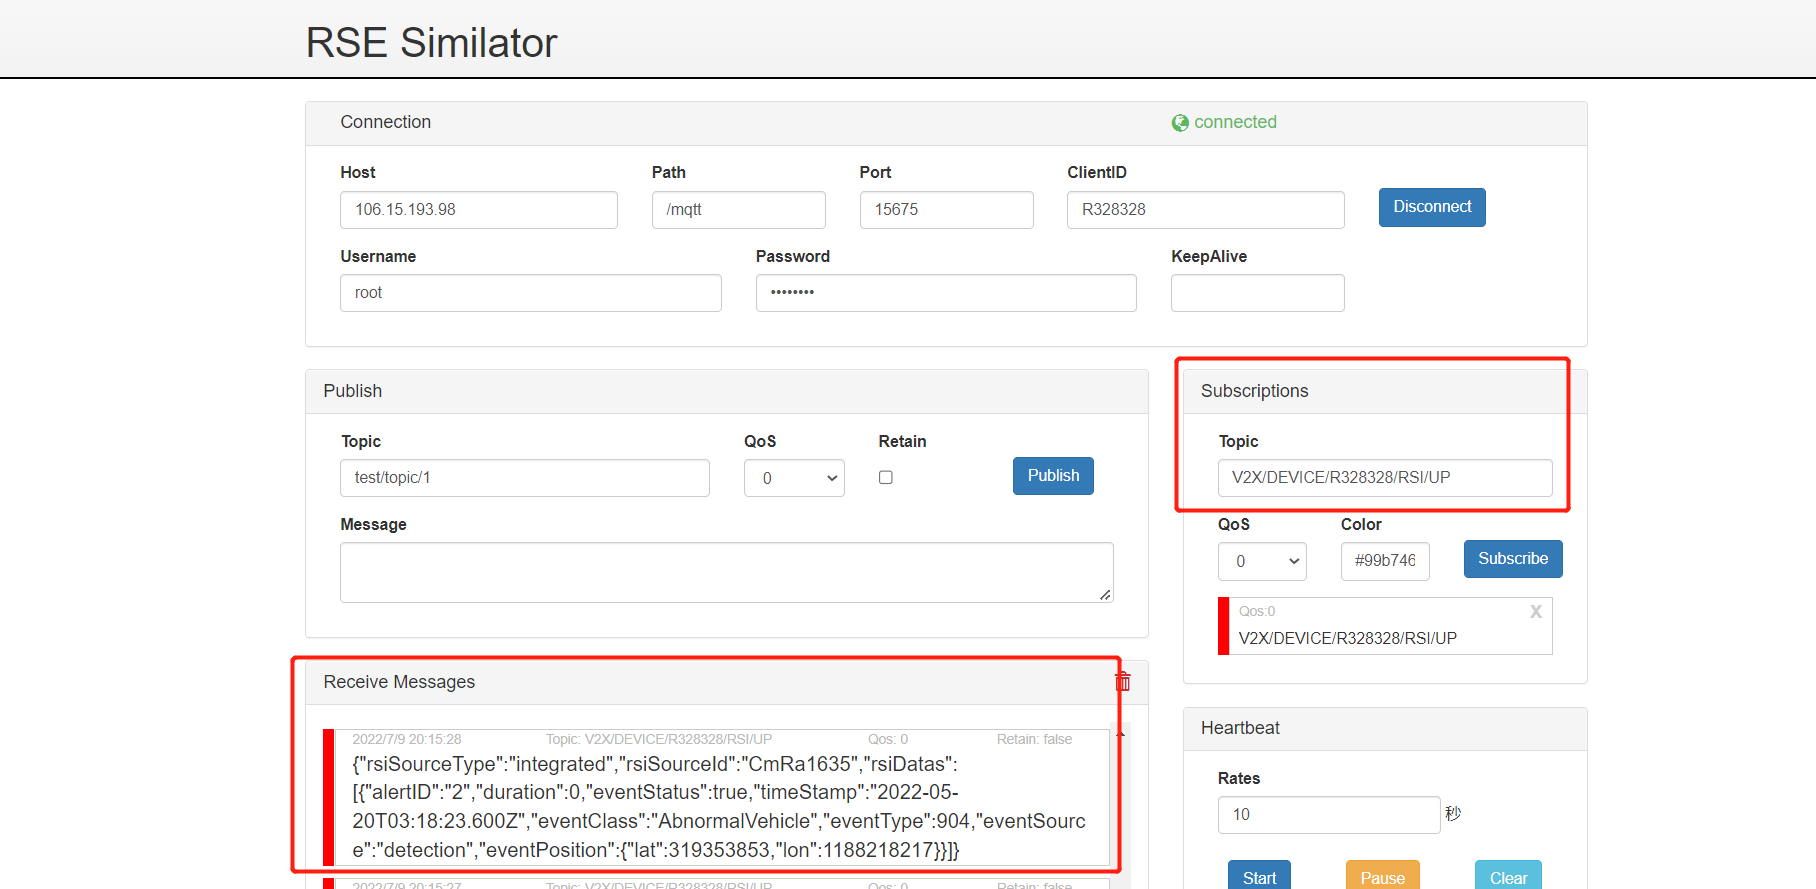
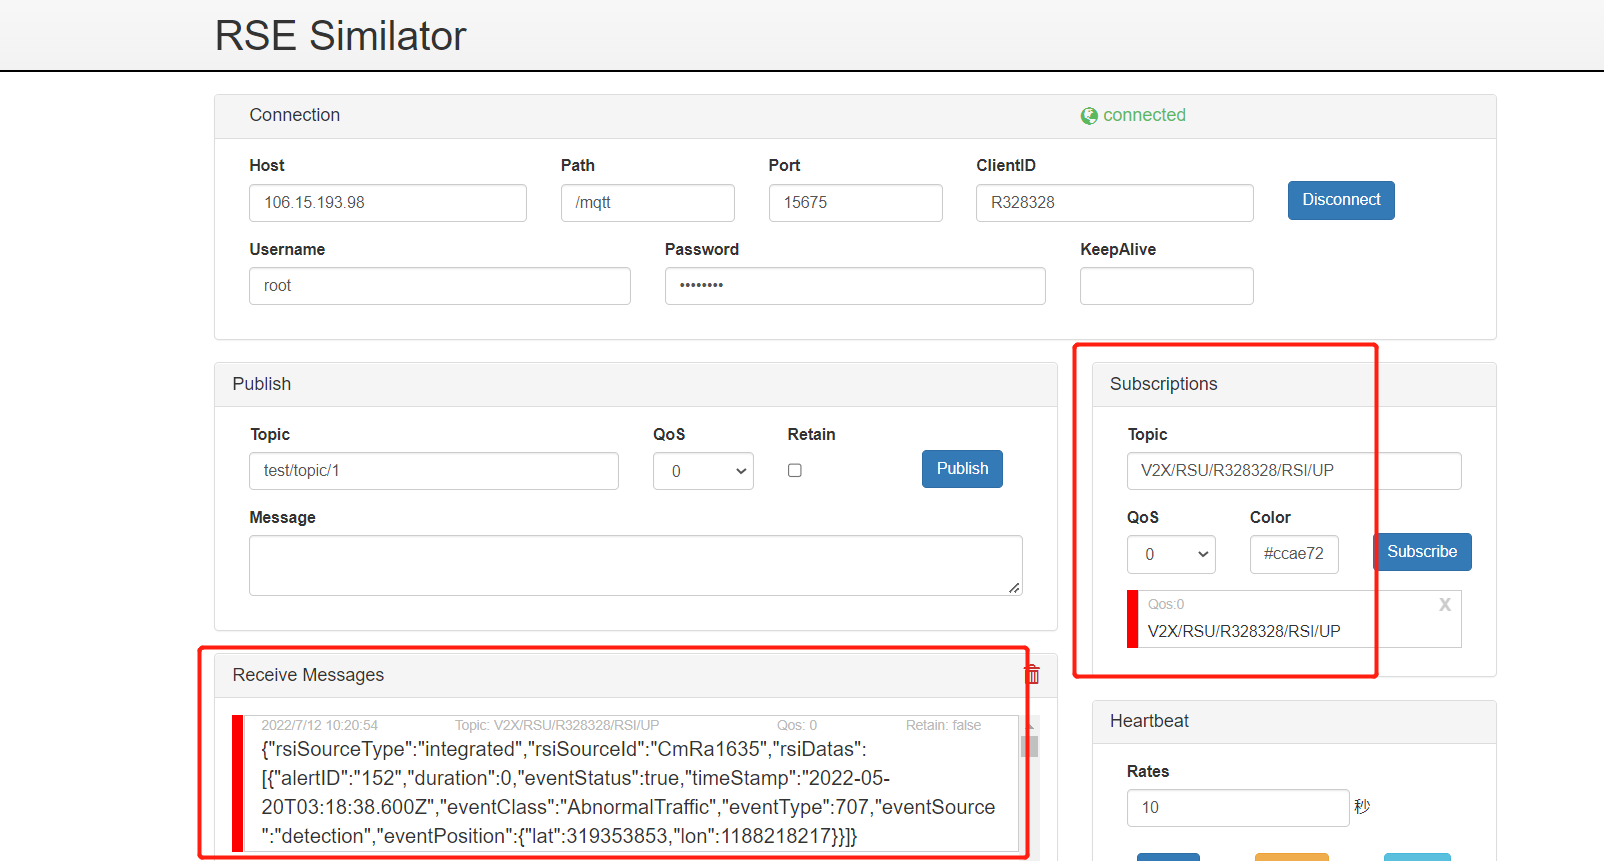
docs: add functional tests docs
issue: 140870

diff --git a/function-test/data-down/algorithm-function-test.md b/function-test/data-down/algorithm-function-test.md
@@ -291,7 +291,7 @@ Subscribe Topic:  V2X/RSU/DNP/R328328/DOWN
 ```
 Publish:
         {"msgCnt": "2", "id": "39", "refPos": {"lon": 1188219331, "lat": 319353469, "ele": 100}, "secMark": 33400, "timeStamp": 1653016893400, "intAndReq": {"currentBehavior": 1, "reqs": {"reqID": 2, "status": 2, "targetRSU": "R328328", "info": {"retrograde": {"upstreamNode": "", "downstreamNode": "", "targetLane": 1}}, "lifeTime": 500}}}
-Subscribe:      
+Subscribe:
         {'msgCnt': '2', 'id': '39', 'secMark': 33400, 'refPos': {'lon': 1188219331, 'lat': 319353469, 'ele': 100}, 'coordinates': {'vehId': '39', 'driveSuggestion': {'suggestion': 1, 'lifeTime': 900}, 'pathGuidance': [], 'info': 0}}
 ```
 

diff --git a/function-test/data-up/rsi-up-test.md b/function-test/data-up/rsi-up-test.md
@@ -14,7 +14,7 @@ ClientID:  R328328
 Username:  root
 Password: abc@1234
 Publish Topic:  V2X/RSU/R328328/RSI/UP/DAWNLINE
-Subscribe Topic:  V2X/DEVICE/R328328/RSI/UP
+Subscribe Topic:  V2X/RSU/R328328/RSI/UP
 ```
 
 ## 3. 测试数据
